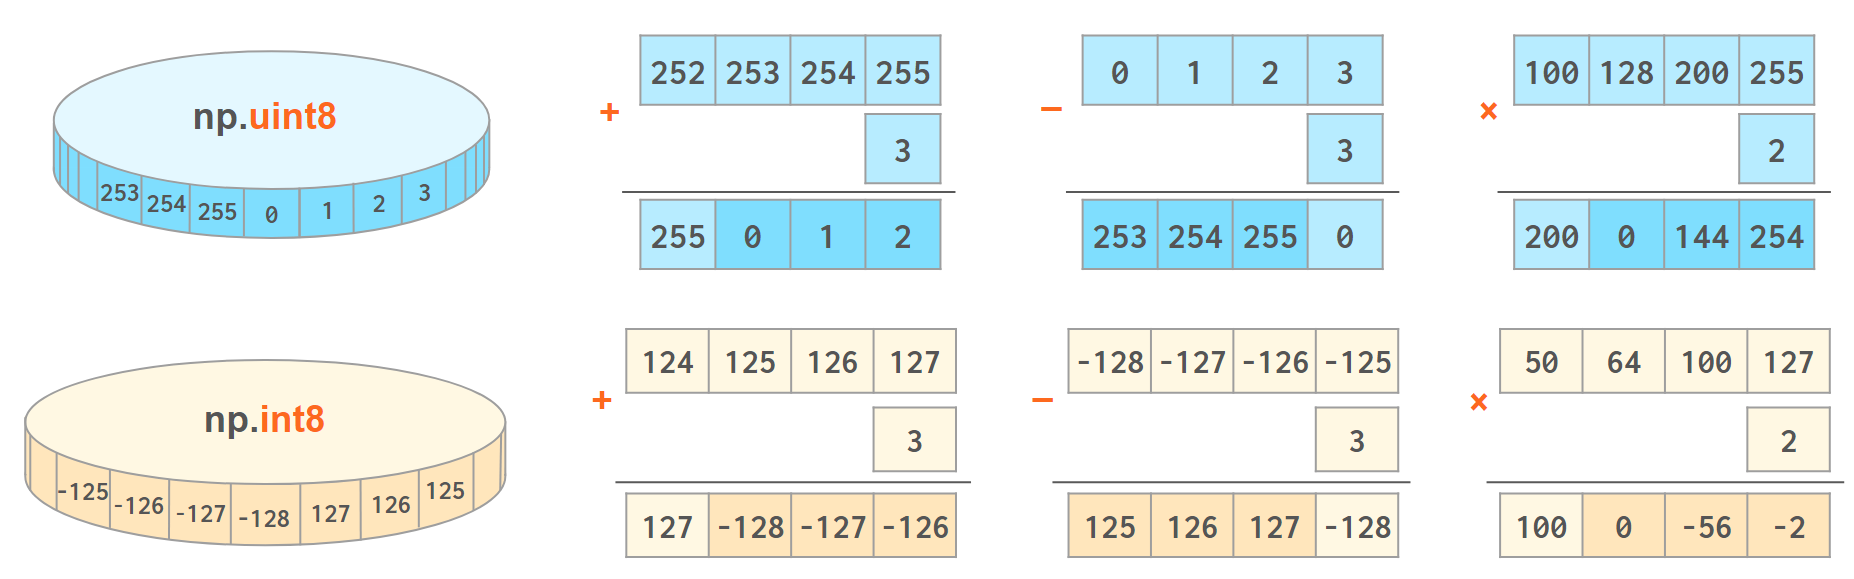
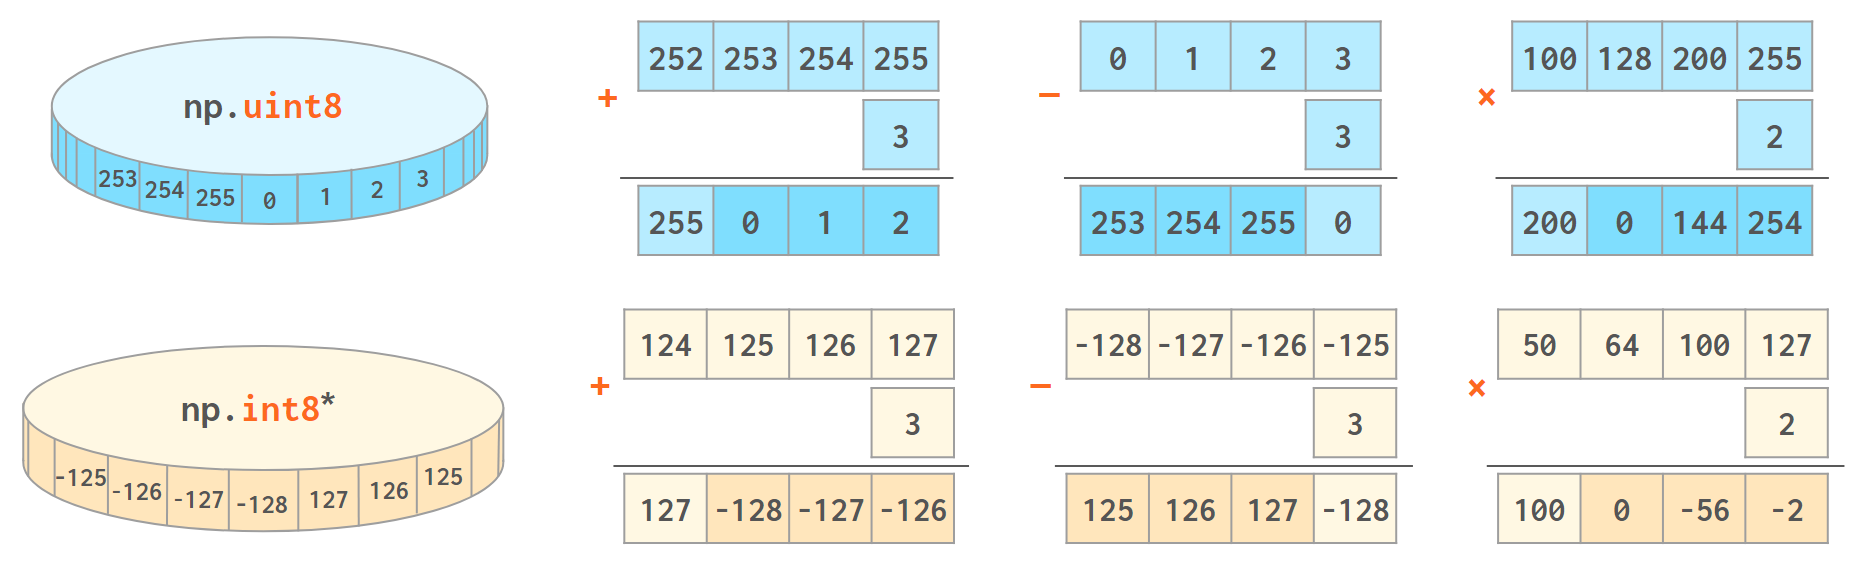
fix

diff --git a/1.html b/1.html
@@ -88,6 +88,7 @@
 <p>If you’re unhappy with the 'flavor' of the integer type that NumPy has chosen for you, you can specify one explicitly: np.array([1,2,3], np.uint8) or np.array([1,2,3], 'uint8').</p>
 <p>NumPy works best when the width of the array elements is fixed. It is faster and takes less memory, but unlike an ordinary Python int (that works in arbitrary precision arithmetic) the value will wrap when it crosses the maximum (or minimum) value for the corresponding data type:</p>
 <img alt="Int Wrapping" src="img/numpy-data-types/int_wrapping.png" />
+<p>* <em>Strictly speaking, the C standard defines this wraparound only for the unsigned integers; the overflow behavior for the signed integers is undefined, but this is how it works in reality except maybe on some very exotic platforms.</em></p>
 <pre class="code python literal-block">
 <span class="o">&gt;&gt;&gt;</span> <span class="n">np</span><span class="o">.</span><span class="n">array</span><span class="p">([</span><span class="mi">255</span><span class="p">],</span> <span class="n">np</span><span class="o">.</span><span class="n">uint8</span><span class="p">)</span> <span class="o">+</span> <span class="mi">1</span> <span class="c1"># 2**8-1 is INT_MAX for uint8</span>
 <span class="n">array</span><span class="p">([</span><span class="mi">0</span><span class="p">],</span> <span class="n">dtype</span><span class="o">=</span><span class="n">uint8</span><span class="p">)</span>
@@ -494,10 +495,10 @@ but they lack:<br/>&nbsp;&nbsp;&nbsp;– grouping (except what is offered by ite
         <div class="span2" style="float:right;font-size:0.9em;">
  
             <h4>Published</h4>
-            <time pubdate="pubdate" datetime="2021-12-30T05:04:51.928100+07:00">Dec 30, 2021</time>
+            <time pubdate="pubdate" datetime="2021-12-30T05:36:35.036359+07:00">Dec 30, 2021</time>
  
             <h4>Last Updated</h4>
-            <div class="last_updated">2021-12-30 05:04:51.928100+07:00</div>
+            <div class="last_updated">2021-12-30 05:36:35.036359+07:00</div>
             <h4>Category</h4>
             <a class="category-link" href="/categories.html#numpy-data-types-ref">numpy-data-types</a> 
 

diff --git a/a-comprehensive-guide-to-numpy-data-types.html b/a-comprehensive-guide-to-numpy-data-types.html
@@ -98,6 +98,7 @@
 <p>If you’re unhappy with the 'flavor' of the integer type that NumPy has chosen for you, you can specify one explicitly: np.array([1,2,3], np.uint8) or np.array([1,2,3], 'uint8').</p>
 <p>NumPy works best when the width of the array elements is fixed. It is faster and takes less memory, but unlike an ordinary Python int (that works in arbitrary precision arithmetic) the value will wrap when it crosses the maximum (or minimum) value for the corresponding data type:</p>
 <img alt="Int Wrapping" src="img/numpy-data-types/int_wrapping.png" />
+<p>* <em>Strictly speaking, the C standard defines this wraparound only for the unsigned integers; the overflow behavior for the signed integers is undefined, but this is how it works in reality except maybe on some very exotic platforms.</em></p>
 <pre class="code python literal-block">
 <span class="o">&gt;&gt;&gt;</span> <span class="n">np</span><span class="o">.</span><span class="n">array</span><span class="p">([</span><span class="mi">255</span><span class="p">],</span> <span class="n">np</span><span class="o">.</span><span class="n">uint8</span><span class="p">)</span> <span class="o">+</span> <span class="mi">1</span> <span class="c1"># 2**8-1 is INT_MAX for uint8</span>
 <span class="n">array</span><span class="p">([</span><span class="mi">0</span><span class="p">],</span> <span class="n">dtype</span><span class="o">=</span><span class="n">uint8</span><span class="p">)</span>
@@ -514,10 +515,10 @@ but they lack:<br/>&nbsp;&nbsp;&nbsp;– grouping (except what is offered by ite
         <div class="span2" style="float:right;font-size:0.9em;">
  
             <h4>Published</h4>
-            <time pubdate="pubdate" datetime="2021-12-30T05:04:51.928100+07:00">Dec 30, 2021</time>
+            <time pubdate="pubdate" datetime="2021-12-30T05:36:35.036359+07:00">Dec 30, 2021</time>
  
             <h4>Last Updated</h4>
-            <div class="last_updated">2021-12-30 05:04:51.928100+07:00</div>
+            <div class="last_updated">2021-12-30 05:36:35.036359+07:00</div>
             <h4>Category</h4>
             <a class="category-link" href="/categories.html#numpy-data-types-ref">numpy-data-types</a> 
 

diff --git a/numpy-data-types.html b/numpy-data-types.html
@@ -98,6 +98,7 @@
 <p>If you’re unhappy with the 'flavor' of the integer type that NumPy has chosen for you, you can specify one explicitly: np.array([1,2,3], np.uint8) or np.array([1,2,3], 'uint8').</p>
 <p>NumPy works best when the width of the array elements is fixed. It is faster and takes less memory, but unlike an ordinary Python int (that works in arbitrary precision arithmetic) the value will wrap when it crosses the maximum (or minimum) value for the corresponding data type:</p>
 <img alt="Int Wrapping" src="img/numpy-data-types/int_wrapping.png" />
+<p>* <em>Strictly speaking, the C standard defines this wraparound only for the unsigned integers; the overflow behavior for the signed integers is undefined, but this is how it works in reality except maybe on some very exotic platforms.</em></p>
 <pre class="code python literal-block">
 <span class="o">&gt;&gt;&gt;</span> <span class="n">np</span><span class="o">.</span><span class="n">array</span><span class="p">([</span><span class="mi">255</span><span class="p">],</span> <span class="n">np</span><span class="o">.</span><span class="n">uint8</span><span class="p">)</span> <span class="o">+</span> <span class="mi">1</span> <span class="c1"># 2**8-1 is INT_MAX for uint8</span>
 <span class="n">array</span><span class="p">([</span><span class="mi">0</span><span class="p">],</span> <span class="n">dtype</span><span class="o">=</span><span class="n">uint8</span><span class="p">)</span>
@@ -514,10 +515,10 @@ but they lack:<br/>&nbsp;&nbsp;&nbsp;– grouping (except what is offered by ite
         <div class="span2" style="float:right;font-size:0.9em;">
  
             <h4>Published</h4>
-            <time pubdate="pubdate" datetime="2021-12-30T05:04:51.928100+07:00">Dec 30, 2021</time>
+            <time pubdate="pubdate" datetime="2021-12-30T05:36:35.036359+07:00">Dec 30, 2021</time>
  
             <h4>Last Updated</h4>
-            <div class="last_updated">2021-12-30 05:04:51.928100+07:00</div>
+            <div class="last_updated">2021-12-30 05:36:35.036359+07:00</div>
             <h4>Category</h4>
             <a class="category-link" href="/categories.html#numpy-data-types-ref">numpy-data-types</a> 
 

diff --git a/categories.html b/categories.html
@@ -80,7 +80,7 @@
                     <div class="accordion-inner">
                         <ul class="list-articles-category">
  
-                            <li><span><time pubdate="pubdate" datetime="2021-12-30T05:04:51.928100+07:00">Thu 30 December 2021</time></span> <a href="./a-comprehensive-guide-to-numpy-data-types.html">A Comprehensive Guide to NumPy Data Types  </a></li>
+                            <li><span><time pubdate="pubdate" datetime="2021-12-30T05:36:35.036359+07:00">Thu 30 December 2021</time></span> <a href="./a-comprehensive-guide-to-numpy-data-types.html">A Comprehensive Guide to NumPy Data Types  </a></li>
                         </ul>
                     </div>
                 </div>

diff --git a/archives.html b/archives.html
@@ -70,7 +70,7 @@
     <div class="span8 offset2">
         <ul class="list-all-articles">
             <li><a href="./a-comprehensive-guide-to-numpy-data-types.html">A Comprehensive Guide to NumPy Data Types  </a>
-            <time pubdate="pubdate" datetime="2021-12-30T05:04:51.928100+07:00">Thu 30 December 2021</time>
+            <time pubdate="pubdate" datetime="2021-12-30T05:36:35.036359+07:00">Thu 30 December 2021</time>
             </li>
             <li><a href="./pytest-vs-standard-django-tests.html">Pytest vs standard django tests  </a>
             <time pubdate="pubdate" datetime="2017-06-08T13:30:00+07:00">Thu 08 June 2017</time>

diff --git a/author/lev-maximov.html b/author/lev-maximov.html
@@ -73,7 +73,7 @@
             <ul class="list-all-articles">
                 <li>
                 <a href="../a-comprehensive-guide-to-numpy-data-types.html">A Comprehensive Guide to NumPy Data Types  </a> 
-                <time pubdate="pubdate" datetime="2021-12-30T05:04:51.928100+07:00">Thu 30 December 2021</time>
+                <time pubdate="pubdate" datetime="2021-12-30T05:36:35.036359+07:00">Thu 30 December 2021</time>
                 </li>
             </ul>
             <ul class="list-all-articles">

diff --git a/author/lev-maximov2.html b/author/lev-maximov2.html
@@ -73,7 +73,7 @@
             <ul class="list-all-articles">
                 <li>
                 <a href="../a-comprehensive-guide-to-numpy-data-types.html">A Comprehensive Guide to NumPy Data Types  </a> 
-                <time pubdate="pubdate" datetime="2021-12-30T05:04:51.928100+07:00">Thu 30 December 2021</time>
+                <time pubdate="pubdate" datetime="2021-12-30T05:36:35.036359+07:00">Thu 30 December 2021</time>
                 </li>
             </ul>
             <ul class="list-all-articles">

diff --git a/index.html b/index.html
@@ -74,7 +74,7 @@
             <ul class="list-all-articles">
                 <li>
                 <a href="./a-comprehensive-guide-to-numpy-data-types.html">A Comprehensive Guide to NumPy Data Types  </a> 
-                <time pubdate="pubdate" datetime="2021-12-30T05:04:51.928100+07:00">Thu 30 December 2021</time>
+                <time pubdate="pubdate" datetime="2021-12-30T05:36:35.036359+07:00">Thu 30 December 2021</time>
                 </li>
             </ul>
             <ul class="list-all-articles">

diff --git a/index2.html b/index2.html
@@ -74,7 +74,7 @@
             <ul class="list-all-articles">
                 <li>
                 <a href="./a-comprehensive-guide-to-numpy-data-types.html">A Comprehensive Guide to NumPy Data Types  </a> 
-                <time pubdate="pubdate" datetime="2021-12-30T05:04:51.928100+07:00">Thu 30 December 2021</time>
+                <time pubdate="pubdate" datetime="2021-12-30T05:36:35.036359+07:00">Thu 30 December 2021</time>
                 </li>
             </ul>
             <ul class="list-all-articles">

diff --git a/category/numpy-data-types.html b/category/numpy-data-types.html
@@ -73,7 +73,7 @@
             <ul class="list-all-articles">
                 <li>
                 <a href="../a-comprehensive-guide-to-numpy-data-types.html">A Comprehensive Guide to NumPy Data Types  </a> 
-                <time pubdate="pubdate" datetime="2021-12-30T05:04:51.928100+07:00">Thu 30 December 2021</time>
+                <time pubdate="pubdate" datetime="2021-12-30T05:36:35.036359+07:00">Thu 30 December 2021</time>
                 </li>
             </ul>
         </div>
